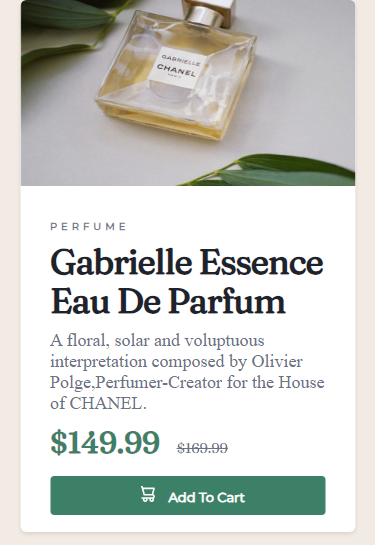
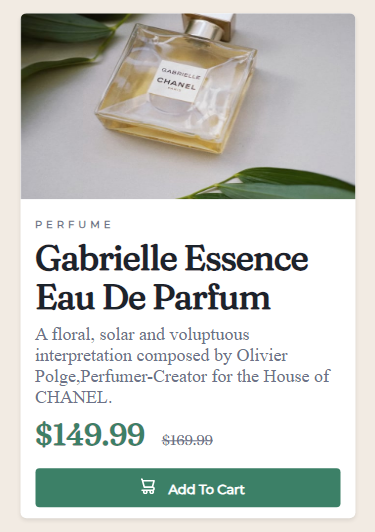
update in mobile preview

diff --git a/style.css b/style.css
@@ -92,11 +92,15 @@ button img {
 }
 
 @media (max-width: 768px) {
+    .container .card .text {
+       
+        padding: 15px;
+      }
   .card {
     display: grid;
     grid-template-columns: repeat(1, 1fr);
     width: 335px;
-    height: 100vh;
+    height: 95vh;
   }
 
   .card .image {
@@ -114,9 +118,9 @@ button img {
   }
 
   .container .card .text h1 {
-    margin: 10px 0;
+    margin: 8px 0;
   }
   .container .card .text p {
-    margin-bottom: 10px;
+    margin-bottom: 8px;
   }
 }

diff --git a/README.md b/README.md
@@ -16,8 +16,8 @@ Users should be able to:
 
 
 
-- Solution URL: [Add solution URL here](https://your-solution-url.com)
-- Live Site URL: [Add live site URL here](https://your-live-site-url.com)
+- Solution URL: [https://github.com/Naglaa99/card-preview]
+- Live Site URL: [https://naglaa99.github.io/card-preview/]
 
 
 ### Built with
